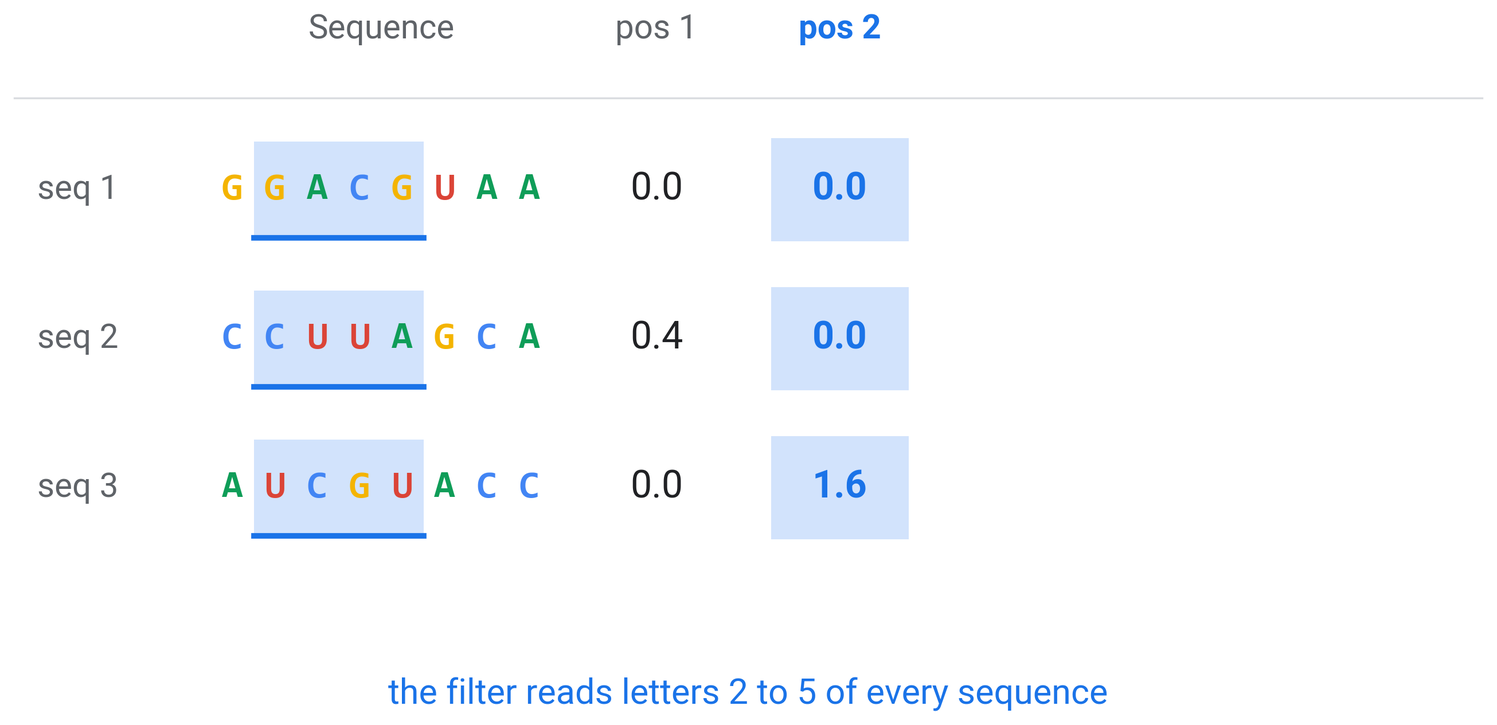
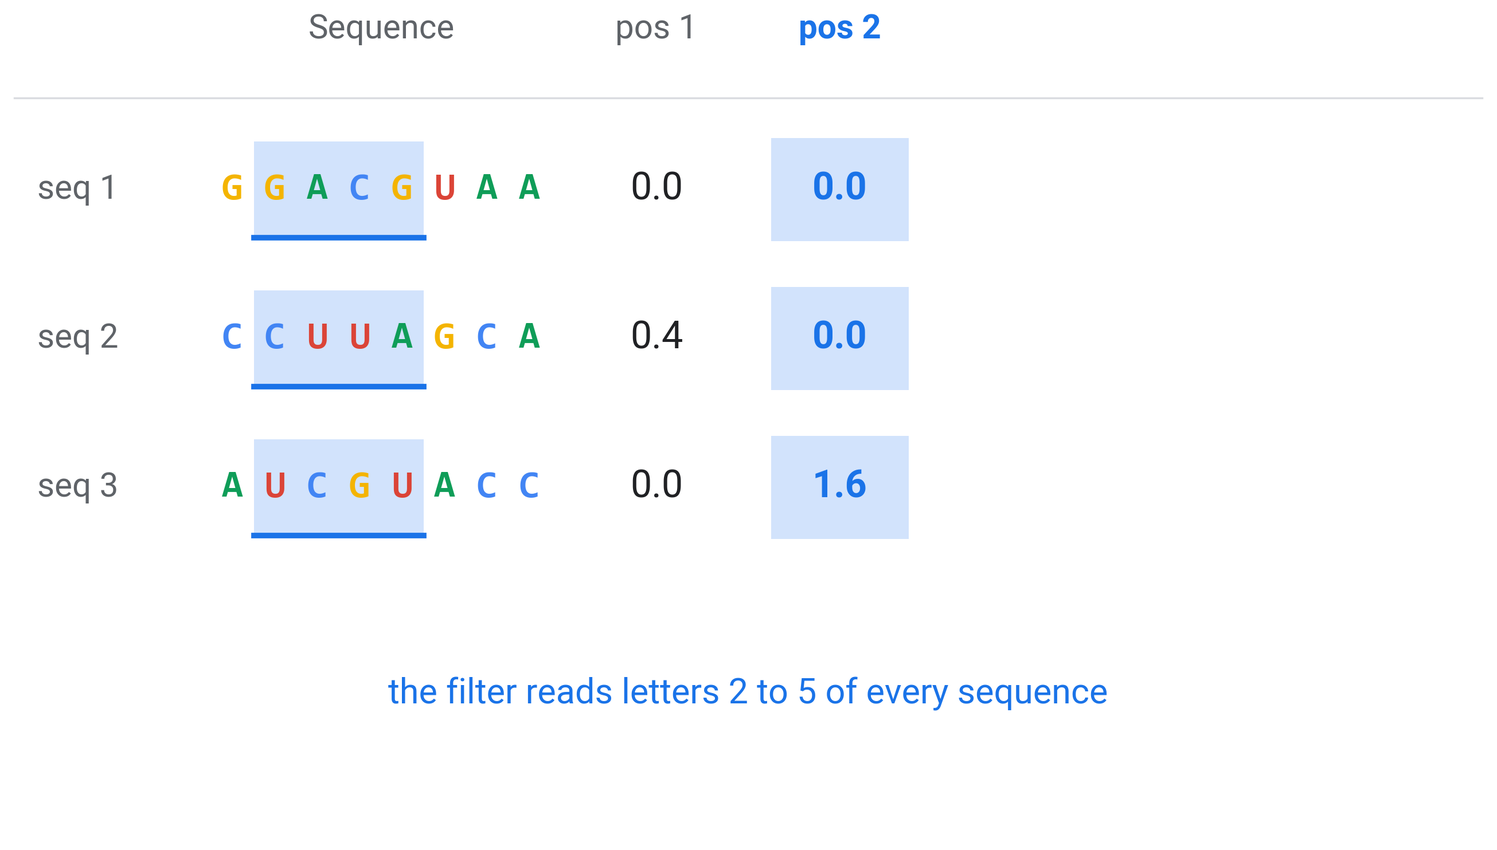
Audit fixes: device and .item() hints, safer tests (padding, empty filters, cleared gradients, count_words k, single-object probe), stable 5.1 frames, notes and wording corrections

diff --git a/slides/01_cnn.html b/slides/01_cnn.html
@@ -539,7 +539,7 @@
 <aside class="notes">
 <ul>
 <li>Four real training sequences, the first 32 of their 340 letters. <span class="math inline">\(y\)</span> is the CLIP-seq label; <span class="math inline">\(\hat p\)</span> is the prediction of the CNN trained in this part.</li>
-<li>Supervised learning: every training example comes with its answer. Here <span class="math inline">\(N\)</span> = 92,346. The next slide gives these symbols their tutorial-1 names.</li>
+<li>Supervised learning: every training example comes with its answer. Here <span class="math inline">\(N\)</span> = 92,346. The next slide names these symbols.</li>
 <li>Training chooses <span class="math inline">\(\theta\)</span> so that <span class="math inline">\(\hat p\)</span> is close to <span class="math inline">\(y\)</span> on the training examples. The goal is good predictions on sequences the model has not seen (section 3).</li>
 <li>The second bound example gets 0.35 and the second unbound one 0.52: the model is often uncertain, and sometimes wrong.</li>
 <li>Click: the loss of each example, small when <span class="math inline">\(\hat p\)</span> is close to <span class="math inline">\(y\)</span> (0.10 for the first, bound at 0.90) and large when it is far (1.04 for the second bound one, at 0.35). Slide 2.8 gives the formula.</li>
@@ -613,7 +613,7 @@
 </div>
 <aside class="notes">
 <ul>
-<li>The notation of tutorial 1. <span class="math inline">\(f\)</span> is unknown: we only see it through the examples. The algorithm picks one <span class="math inline">\(g_\theta\)</span> from <span class="math inline">\(\mathcal{H}\)</span>.</li>
+<li>The notation we use from here on. <span class="math inline">\(f\)</span> is unknown: we only see it through the examples. The algorithm picks one <span class="math inline">\(g_\theta\)</span> from <span class="math inline">\(\mathcal{H}\)</span>.</li>
 <li>Today: <span class="math inline">\(\mathcal{X}\)</span> RNA sequences; <span class="math inline">\(\mathcal{Y}\)</span> 1 bound, 0 unbound; <span class="math inline">\(D\)</span> 92,346 labelled sequences; <span class="math inline">\(f\)</span> where AGO2 binds; <span class="math inline">\(\mathcal{H}\)</span> all CNNs of one shape; <span class="math inline">\(\mathcal{A}\)</span> gradient descent; <span class="math inline">\(g_\theta\)</span> the trained CNN.</li>
 </ul>
 <style type="text/css">
@@ -675,7 +675,7 @@
 <li>A confident correct prediction costs almost nothing; a confident wrong one costs a lot (<span class="math inline">\(-\log 0.01 = 4.6\)</span>).</li>
 <li>On slide 2.5: predicting 0.90 for a bound sequence gives a loss of 0.10; predicting 0.35 gives 1.04.</li>
 <li>Predicting 0.5 for everything gives <span class="math inline">\(\ln 2 = 0.69\)</span>, the loss of a coin flip.</li>
-<li>Tutorial 1 used the mean squared error, for predicting a number. Cross-entropy is the standard loss for a predicted probability.</li>
+<li>For predicting a number one would use the mean squared error. Cross-entropy is the standard loss for a predicted probability.</li>
 </ul>
 <style type="text/css">
         span.MJX_Assistive_MathML {
@@ -1051,7 +1051,7 @@
 <aside class="notes">
 <ul>
 <li>One filter at epochs 0, 1, 3 and 10 of one training run (its number is in the figure), one epoch per click, with the held-out AUROC after each epoch. Rows A, C, G, U; columns the 10 positions; blue positive, orange negative weights.</li>
-<li>Epoch 0 is the random initialisation (AUROC 0.58). After epoch 1 the model reaches 0.79 and after epoch 3 0.85. By epoch 10 the filter has a clear preference, a G at position 7, and the model reaches 0.86.</li>
+<li>Epoch 0 is the random initialisation (AUROC 0.58). After epoch 1 the model reaches 0.79 and after epoch 3 0.84. By epoch 10 the filter has clear preferences (the darkest cells: a letter at a position) and the model reaches 0.86. The exact numbers vary from run to run.</li>
 <li>Each step is the update of slide 2.12, applied to all 2,491 weights. We use Adam, a variant of gradient descent that adapts the step size per weight.</li>
 </ul>
 <style type="text/css">
@@ -1218,12 +1218,12 @@
 <section id="which-windows-does-a-filter-like" class="slide level2">
 <h2>5.1 Which windows does a filter like?</h2>
 <div class="r-stack">
-<p><img data-src="assets/custom/toy_cutoff_0.png" height="697"></p>
-<p><img data-src="assets/custom/toy_cutoff_1.png" class="fragment" height="697"></p>
-<p><img data-src="assets/custom/toy_cutoff_2.png" class="fragment" height="697"></p>
-<p><img data-src="assets/custom/toy_cutoff_3.png" class="fragment" height="697"></p>
-<p><img data-src="assets/custom/toy_cutoff_4.png" class="fragment" height="697"></p>
-<p><img data-src="assets/custom/toy_cutoff_5.png" class="fragment" height="697"></p>
+<p><img data-src="assets/custom/toy_cutoff_0.png" height="742"></p>
+<p><img data-src="assets/custom/toy_cutoff_1.png" class="fragment" height="742"></p>
+<p><img data-src="assets/custom/toy_cutoff_2.png" class="fragment" height="742"></p>
+<p><img data-src="assets/custom/toy_cutoff_3.png" class="fragment" height="742"></p>
+<p><img data-src="assets/custom/toy_cutoff_4.png" class="fragment" height="742"></p>
+<p><img data-src="assets/custom/toy_cutoff_5.png" class="fragment" height="742"></p>
 </div>
 <aside class="notes">
 <ul>
@@ -1339,7 +1339,7 @@
 <aside class="notes">
 <ul>
 <li>TODO-1: <code>one_hot</code> and <code>encode_batch</code>. TODO-2: build your own network from the parts. TODO-3: <code>train_step</code>, <code>evaluate</code>, then the ROC curve. TODO-4: filter 0 step by step, then a logo for every filter. TODO-5: one copy in one sequence, design a control, then both curves.</li>
-<li>Helpers for TODO-4: <code>acts[:, f, :]</code>, <code>cutoff_for</code>, <code>windows_above</code>, <code>pwm_of</code>; then set <code>MY_FILTER</code> and <code>MY_MOTIF</code>. TODO-4 ends with choosing a motif. TODO-5 uses <code>plant</code>, first on one sequence (TODO-5a), then on all 1,000 (TODO-5b).</li>
+<li>Helpers for TODO-4: <code>acts[:, f, :]</code>, <code>cutoff_for</code>, <code>windows_above</code>, <code>pwm_of</code>; then set <code>MY_FILTER</code> and <code>MY_MOTIF</code>. TODO-4 ends with choosing a motif. TODO-5 uses <code>plant</code>, first on one sequence (TODO-5a), then its control (TODO-5b), then many copies in all 1,000 (TODO-5c).</li>
 <li>Each TODO has a test cell; the solutions are published on the workshop site during the workshop.</li>
 </ul>
 <p>Next, after the break: part 2, DNA foundation models, pretrained on the whole genome.</p>

diff --git a/slides/02_foundation_models.html b/slides/02_foundation_models.html
@@ -345,10 +345,11 @@
 <h2>2.1 Single letters</h2>
 <ul>
 <li>A vocabulary of 4: each letter is a token, as in the CNN</li>
+<li>DNA models read T where RNA has U</li>
 </ul>
 <div class="quarto-figure quarto-figure-center">
 <figure>
-<p><img data-src="assets/custom/tokens_letters.png" class="quarto-figure quarto-figure-center" height="655"></p>
+<p><img data-src="assets/custom/tokens_letters.png" class="quarto-figure quarto-figure-center" height="590"></p>
 </figure>
 </div>
 <aside class="notes">
@@ -465,12 +466,12 @@
 <section id="token-embeddings" class="slide level2">
 <h2>3.1 Token embeddings</h2>
 <ul>
-<li>Token <span class="math inline">\(i\)</span> becomes row <span class="math inline">\(i\)</span> of a learned table <span class="math inline">\(E\)</span>: <span class="math inline">\(\;e_i = x_i^\top E\)</span></li>
+<li>A token with ID <span class="math inline">\(k\)</span> becomes row <span class="math inline">\(k\)</span> of a learned table <span class="math inline">\(E\)</span>: <span class="math inline">\(\;e_i = x_i^\top E\)</span> for the token at position <span class="math inline">\(i\)</span>, with <span class="math inline">\(x_i\)</span> the one-hot vector of its ID</li>
 </ul>
 <div class="r-stack">
-<p><img data-src="assets/custom/d2_emb_0.png" height="640"></p>
-<p><img data-src="assets/custom/d2_emb_1.png" class="fragment" height="640"></p>
-<p><img data-src="assets/custom/d2_emb_2.png" class="fragment" height="640"></p>
+<p><img data-src="assets/custom/d2_emb_0.png" height="591"></p>
+<p><img data-src="assets/custom/d2_emb_1.png" class="fragment" height="591"></p>
+<p><img data-src="assets/custom/d2_emb_2.png" class="fragment" height="591"></p>
 </div>
 <aside class="notes">
 <ul>
@@ -626,7 +627,7 @@
 <aside class="notes">
 <ul>
 <li>The sequence embedding <span class="math inline">\(e = (e_1, \dots, e_{256})\)</span> of slide 4.2: the average of the body’s output rows.</li>
-<li>The head is logistic regression, the model of part 1 (slides 2.10 and 2.11) with 256 inputs instead of 2: each number gets a weight, the weighted sum plus a bias <span class="math inline">\(b\)</span> goes through the sigmoid <span class="math inline">\(\sigma\)</span>, and the result <span class="math inline">\(\hat p\)</span> is the probability that AGO2 binds, P(bound).</li>
+<li>The head is logistic regression, the model of part 1 (slides 2.10 and 2.12) with 256 inputs instead of 2: each number gets a weight, the weighted sum plus a bias <span class="math inline">\(b\)</span> goes through the sigmoid <span class="math inline">\(\sigma\)</span>, and the result <span class="math inline">\(\hat p\)</span> is the probability that AGO2 binds, P(bound).</li>
 <li>Click: it is trained on 12,000 labelled sequences; three real ones are shown, their sequence embeddings and their labels. Only the 256 weights and the bias are learned; the body stays frozen. This is a <strong>linear probe</strong>.</li>
 <li>Before fitting, each of the 256 numbers is standardised (mean 0, standard deviation 1 on the training sequences), and regularisation keeps the weights small (<code>C = 0.1</code> in scikit-learn).</li>
 <li>Fit on the training vectors, score on the held-out vectors. Scored on its own training vectors, this probe gives about 0.82.</li>
@@ -742,7 +743,7 @@
 <aside class="notes">
 <ul>
 <li>Signatures: <code>embed(tok, model, seqs)</code> returns an <code>(N, 256)</code> array; <code>probe_auc(...)</code> returns <code>(auc, probe)</code>.</li>
-<li>TODO-1: before writing <code>embed</code>, the notebook prints one sequence’s tokens and a padded pair, and asks how many letters a token holds (about 5) and whether a ~330-letter sequence fits in 512 tokens. The test checks the same vector alone and in a padded batch. Its test checks the same vector whether a sequence is embedded alone or in a batch. If the attention mask is ignored, padding changes the average and the vector of a sequence changes with its batch.</li>
+<li>TODO-1: before writing <code>embed</code>, the notebook prints one sequence’s tokens and a padded pair, and asks how many letters a token holds (about 5) and whether a ~330-letter sequence fits in 512 tokens. Its test checks that a sequence gets the same vector whether it is embedded alone or in a padded batch. If the attention mask is ignored, padding changes the average and the vector of a sequence changes with its batch.</li>
 <li>TODO-2: the probe trains on 12,000 sequences (the <code>C=0.1</code> setting means fairly strong regularisation). If the result is about 0.82, it was scored on the training set; the test cell says so.</li>
 <li>NT-500M (human reference) is a 2 GB download, so its vectors are provided. It scores about 0.79 from these precomputed vectors.</li>
 <li>The live row is section 3 of the notebook: start the cell and read the take-aways while it trains.</li>

diff --git a/slides/03_shortcuts_and_controls.html b/slides/03_shortcuts_and_controls.html
@@ -392,9 +392,10 @@
 <h2>6.1 The day in numbers</h2>
 <div class="quarto-figure quarto-figure-center">
 <figure>
-<p><img data-src="assets/custom/day_numbers.png" class="quarto-figure quarto-figure-center" height="766"></p>
+<p><img data-src="assets/custom/day_numbers.png" class="quarto-figure quarto-figure-center" height="693"></p>
 </figure>
 </div>
+<p><span class="caption-small">Held-out AUROC. The matched-data rows use their own 3,000-sequence test set, so their numbers differ slightly from the 1,000-sequence rows.</span></p>
 <aside class="notes">
 <ul>
 <li>Each row is a measured held-out AUROC from today; open circle to filled circle is the same model before and after a control.</li>
@@ -445,14 +446,14 @@
 <ul>
 <li class="fragment">A CNN read AGO2 binding from the RNA letters alone: <strong>AUROC 0.86</strong></li>
 <li class="fragment">Two composition numbers, GC and U, already reached <strong>0.66</strong>: check simple baselines first</li>
-<li class="fragment">Shuffles and matched data show what a model uses: the CNN fell from 0.86 to 0.66 when shuffled, GC and U fell to chance on matched data</li>
+<li class="fragment">Shuffles and matched data show what a model uses: the CNN fell from 0.86 to 0.66 when shuffled (the shuffle also moves the site), GC and U fell to chance on matched data</li>
 <li class="fragment">With <strong>few labels</strong> (below about 2,500) a frozen pretrained model with a probe beat the CNN; with <strong>20,000 labels</strong> fine-tuning reached 0.87 against the CNN’s 0.84</li>
 </ul>
 <aside class="notes">
 <ul>
 <li>Point 1: held-out AUROC of the part 1 CNN, trained on 92,346 labelled sequences.</li>
 <li>Point 2: the negatives were random positions in the same genes; on the 1,000 held-out sequences GC and U alone reached 0.66, and 5-letter word counts 0.74.</li>
-<li>Point 3: the dinucleotide shuffle keeps letters and letter pairs and breaks longer motifs; matched data keeps GC, U and length equal between the classes (GC and U: 0.64 to 0.51). Frozen Mistral-DNA barely changed under the shuffle (0.77 to 0.78), so it relied mostly on short-range composition.</li>
+<li>Point 3: the dinucleotide shuffle keeps letters and letter pairs and breaks longer motifs; matched data keeps GC, U and length equal between the classes (GC and U: 0.64 to 0.51). Frozen Mistral-DNA barely changed under the shuffle (0.78 to 0.77), so it relied mostly on short-range composition.</li>
 <li>Point 4: from the label curve (slide 5.1) and one offline benchmark with NT-500M and LoRA (3,000 matched test sequences, 3 runs each). The thresholds are for this task and will differ for others.</li>
 <li>For a new problem, the same order: the question and its labels, how the negatives were chosen, simple baselines, the model, then controls.</li>
 </ul>

diff --git a/notebooks/src/01_cnn.py b/notebooks/src/01_cnn.py
@@ -12,8 +12,8 @@
 # **The data.** We use the AGO2 set of the GraphProt CLIP benchmark (Maticzka et al. 2014), as used by
 # Pan & Shen (2018). Each **bound** sequence contains a CLIP-seq binding site of about 40 letters, with
 # flanking context on both sides (in the files the site is in capital letters and the context in small
-# letters; we convert everything to capitals). Each **unbound** sequence was made by moving a binding
-# site to a random position in the same gene. The files call the two classes *positives* and
+# letters; we convert everything to capitals). Each **unbound** sequence is a stretch of the same
+# length taken from a random position in the same gene. The files call the two classes *positives* and
 # *negatives*.
 #
 # In this notebook you will:
@@ -193,7 +193,7 @@ test_encoding()
 #
 # 1. **The input** is one sequence as a one-hot matrix, `1 × 4 × 501`, instead of a `1 × 28 × 28` image.
 # 2. **The first convolution's filters** are 4 rows tall, `(4, width)`, so each filter reads whole
-#    letters at every position; drop the padding. After it, only one row is left.
+#    letters at every position; leave out LeNet's `padding=2`. After it, only one row is left.
 # 3. **Pooling and later convolutions** work along the sequence only: `nn.MaxPool2d((1, c))` and
 #    `nn.Conv2d(..., (1, width))` instead of 2 × 2 and 5 × 5.
 # 4. **The end** is one number per sequence, the logit: flatten, then a single `nn.Linear(f, 1)`.
@@ -268,6 +268,8 @@ def test_network():
         f"❌ the first convolution takes {first.in_channels} input channels, want 1: the one-hot matrix has one channel"
     assert first.kernel_size[0] == 4, \
         f"❌ the first convolution's filters are {first.kernel_size[0]} rows tall, want 4: one row per letter"
+    assert tuple(first.padding) == (0, 0) and tuple(first.stride) == (1, 1), \
+        "❌ the first convolution has padding or a stride: leave both out, so each output is one window of letters"
     for i, k in enumerate(kinds):
         if k == "Conv2d":
             assert kinds[i + 1:i + 2] == ["ReLU"], \
@@ -351,7 +353,7 @@ print(f"{len(train_loader):,} batches of 256 sequences per epoch")
 # %%
 # TODO-3a: write train_step(model, opt, criterion, X, y): one training step on one batch (the five
 #          steps of the pseudocode, from clearing the gradients to the optimizer step). It returns the
-#          loss of the batch, before the step, as a number.
+#          loss of the batch, before the step, as a number: `loss.item()`.
 def train_step(model, opt, criterion, X, y):
     # === Your code here ===
     opt.zero_grad()
@@ -375,7 +377,9 @@ for step in range(1, 6):
 # %%
 # TODO-3b: write evaluate(model, X_test, test_y): the held-out test AUROC, without learning. The model
 #          scores every test sequence, the scores become probabilities of "bound", and the AUROC compares
-#          them with the true labels test_y. It returns the AUROC as a number.
+#          them with the true labels test_y. It returns the AUROC as a number. X_test arrives on the
+#          CPU and the model may be on the GPU: score `model(X_test.to(DEVICE))`, and bring the
+#          probabilities back with `.cpu().numpy()` before `roc_auc_score`.
 def evaluate(model, X_test, test_y):
     # === Your code here ===
     model.eval()
@@ -443,7 +447,7 @@ def test_train():
     assert np.isfinite(l), f"❌ train_step returned the loss {l}, want a finite number"
     assert any(not torch.equal(b0, q.detach()) for b0, q in zip(before, m.parameters())), \
         "❌ the weights did not change in train_step: it must compute the gradients and take the optimizer step"
-    assert all(q.grad.abs().max().item() < 1e5 for q in m.parameters()), \
+    assert all(q.grad is None or q.grad.abs().max().item() < 1e5 for q in m.parameters()), \
         "❌ the gradients of an earlier step were still there: train_step must clear the gradients first"
     X_test = encode_batch(test_seqs)
     with torch.no_grad():
@@ -496,7 +500,7 @@ plt.tight_layout(); plt.show()
 # curve on training sequences pull away from the curve on held-out sequences, and if so, from which
 # epoch? A growing gap means the model starts to memorise its training data. Is your model good, and
 # compared with what? The held-out test set has only 1,000 sequences, so any AUROC on it has a sampling
-# uncertainty of about ±0.025 (95% range, part 1 talk): smaller differences, between epochs or between
+# uncertainty of about ±0.025 (95% range): smaller differences, between epochs or between
 # your network and your neighbour's, are noise.
 
 # %% [markdown]
@@ -617,6 +621,8 @@ def windows_above(acts_f, seqs, cutoff):
 
 def pwm_of(windows):
     """(KERNEL, 4) table: the frequency of each letter at each position."""
+    if not windows:                                    # a filter that never fires: no letter is preferred
+        return np.full((KERNEL, 4), 0.25)
     arr = np.frombuffer("".join(windows).encode(), dtype=np.uint8).reshape(-1, KERNEL)
     counts = np.stack([(arr == ord(b)).sum(0) for b in ALPHABET], 1).astype(float)
     return counts / counts.sum(1, keepdims=True)
@@ -737,7 +743,7 @@ def test_tables():
              f"threshold of filter {f} itself (its activations are acts[:, {f}, :])")
         P = np.asarray(pwms[f])
         assert P.shape == ref.shape, f"❌ filter {f}: pwms[{f}] has shape {P.shape}, want {ref.shape} (positions x letters)"
-        assert np.allclose(P, ref, atol=1e-6), \
+        assert np.allclose(P, ref, atol=1e-6, equal_nan=True), \
             f"❌ filter {f}: pwms[{f}] differs from pwm_of(its windows) by up to {np.abs(P - ref).max():.3g}"
         assert motifs[f] == consensus_of(ref), \
             f"❌ filter {f}: motifs[{f}] = {motifs[f]!r}, want {consensus_of(ref)!r}, the consensus of pwms[{f}]"
@@ -767,7 +773,7 @@ plt.tight_layout(); plt.show()
 # logo looks most like a specific pattern (tall, clean columns) and set `MY_FILTER` to its number.
 # `MY_MOTIF` is then its consensus, the tallest letter in each column from left to right. You can also
 # type the motif you read off the logo yourself. That string is your hypothesis for what the model
-# responds to. If you change nothing, you test filter 00.
+# responds to. Pick a motif with at least two different letters (TODO-5 reorders its letters). If you change nothing, you test filter 00.
 
 # %%
 MY_FILTER = 0                  # <- the number of the filter you chose
@@ -802,7 +808,8 @@ print(f"your motif: {MY_MOTIF}")
 
 # %%
 # TODO-5a: one copy of MY_MOTIF in one sequence. `one` is the first random sequence of `canvas`;
-#          `one_planted` is the same sequence with one copy of MY_MOTIF inserted (toolkit, section 5);
+#          `one_planted` is the same sequence with one copy of MY_MOTIF inserted (toolkit, section 5;
+#          `plant` takes a list of sequences and returns a list);
 #          `score_before` and `score_after` are the model's scores of the two.
 # === Your code here ===
 one = canvas[0]

diff --git a/notebooks/src/03_shortcuts_and_controls.py b/notebooks/src/03_shortcuts_and_controls.py
@@ -7,7 +7,7 @@
 #
 # | model | what it is | held-out test AUROC |
 # |---|---|---|
-# | your CNN (part 1) | 10 first-layer filters, trained on about 92,000 labelled sequences | ~0.86 |
+# | our CNN (part 1) | 10 first-layer filters, trained on about 92,000 labelled sequences | ~0.86 |
 # | Mistral-DNA (16M) + probe (part 2) | frozen genome-pretrained language model; probe trained on 12,000 labelled sequences | ~0.78 |
 #
 # In this notebook you will:
@@ -236,6 +236,10 @@ def test_words():
         total = len(seq) - 5 + 1
         assert sum(c.values()) == total, \
             f"❌ sequence {n} ({len(seq)} letters): {sum(c.values())} windows counted, want {total} (length - 5 + 1)"
+        pairs = count_words(seq, 2)
+        want2 = Counter(seq[i:i + 2] for i in range(len(seq) - 1))
+        assert {w: v for w, v in pairs.items() if v} == dict(want2), \
+            f"❌ sequence {n}: count_words(seq, 2) does not count the letter pairs; the word length must follow k"
         for j, w in enumerate(WORDS5):
             assert np.isclose(c.get(w, 0) / total, K[n, j], atol=1e-6), \
                 (f"❌ sequence {n}, word {w}: your count is {c.get(w, 0)}, kmer_counts gives "
@@ -335,9 +339,11 @@ print(f"Mistral-DNA : real {probe_real:.3f}  ->  shuffled {auc_shuf_fm:.3f}")
 # %%
 #@title ▶ Test TODO-3 { display-mode: "form" }
 def test_shuffle_test():
-    for name, got, want in (("same_letters", same_letters, count_words(s, 1) == count_words(s_shuf, 1)),
-                            ("same_pairs", same_pairs, count_words(s, 2) == count_words(s_shuf, 2)),
-                            ("same_words5", same_words5, count_words(s, 5) == count_words(s_shuf, 5)),
+    def ref_counts(x, k):                              # independent of the student's count_words
+        return Counter(x[i:i + k] for i in range(len(x) - k + 1))
+    for name, got, want in (("same_letters", same_letters, ref_counts(s, 1) == ref_counts(s_shuf, 1)),
+                            ("same_pairs", same_pairs, ref_counts(s, 2) == ref_counts(s_shuf, 2)),
+                            ("same_words5", same_words5, ref_counts(s, 5) == ref_counts(s_shuf, 5)),
                             ("same_sequence", same_sequence, s == s_shuf)):
         assert got == want, f"❌ {name} = {got}, but comparing the counts of s and s_shuf gives {want}"
     assert unbound == [q for q, label in zip(S_test, y_test) if label == 0], \
@@ -653,7 +659,7 @@ plt.legend(); plt.grid(axis="y"); plt.tight_layout(); plt.show()
 # ### What to take away
 #
 # * **Frozen probe.** It still scores about 0.77 after matching, and in section 3 it barely changed under
-#   the shuffle. So it relies mostly on short-word composition (letter pairs, 5-letter words), which
+#   the shuffle. So it relies mostly on letter-pair composition, which the shuffle keeps and
 #   the matching leaves in place, and little on single letters.
 # * **CNN.** It lost almost nothing to the matched control (0.84 → 0.84), so it uses more than
 #   single-letter composition.

diff --git a/notebooks/src/02_foundation_models.py b/notebooks/src/02_foundation_models.py
@@ -212,7 +212,8 @@ for j in (0, 1):
 #    in 12,000 sequences with 256 numbers each (a smaller `C` means stronger regularisation).
 #
 # Fit on the training set only. The AUROC compares the probe's probability of "bound" for every test
-# sequence with the true test labels.
+# sequence with the true test labels. Return the two steps as **one** object (`make_pipeline`), so that
+# `probe.predict_proba` on raw vectors standardises them itself: later cells, and part 3, call it that way.
 #
 # **Tools:** [`StandardScaler`](https://scikit-learn.org/stable/modules/generated/sklearn.preprocessing.StandardScaler.html),
 # [`LogisticRegression`](https://scikit-learn.org/stable/modules/generated/sklearn.linear_model.LogisticRegression.html),

diff --git a/slides/figures/figs_parts.py b/slides/figures/figs_parts.py
@@ -575,7 +575,7 @@ def cnn_template():
     for k, s in vals.items():
         label(ax, cols[k], 22, s, fs=21, color=X_C)
     label(ax, cols[5], 22, "z = 1.2", fs=21, color=INK, bold=True)
-    shapes = ["4 × 501", "10 filters: 10 × 492", "negatives → 0", "10 × 164", "1,060 numbers", "one number"]
+    shapes = ["4 × 501", "10 filters: 10 × 492", "negatives → 0", "10 × 164, then\nblock 2: 20 × 53", "1,060 = 20 × 53", "one number"]
     for x, s in zip(cols, shapes):
         label(ax, x, 15.5, s, fs=18, color=MUTED)
     # the linear layer and the logistic function with these numbers

diff --git a/slides/figures/figs_v3.py b/slides/figures/figs_v3.py
@@ -659,7 +659,7 @@ if __name__ == "__main__":
             your_turn(ls, ly)
 
     # crop every click-through group to the union of its ink, so frames fill the slide and still stack exactly
-    TRIM_GROUPS = [[f"slide_filter_{k}" for k in range(5)], ["toy_cutoff_0", "toy_cutoff_1"],
+    TRIM_GROUPS = [[f"slide_filter_{k}" for k in range(5)], [f"toy_cutoff_{k}" for k in range(6)],
                    [f"roc_frame_{k}" for k in range(4)], ["bio_flow_base"]]
     for g in TRIM_GROUPS:
         if all((OUT / f"{n}.png").exists() for n in g):
